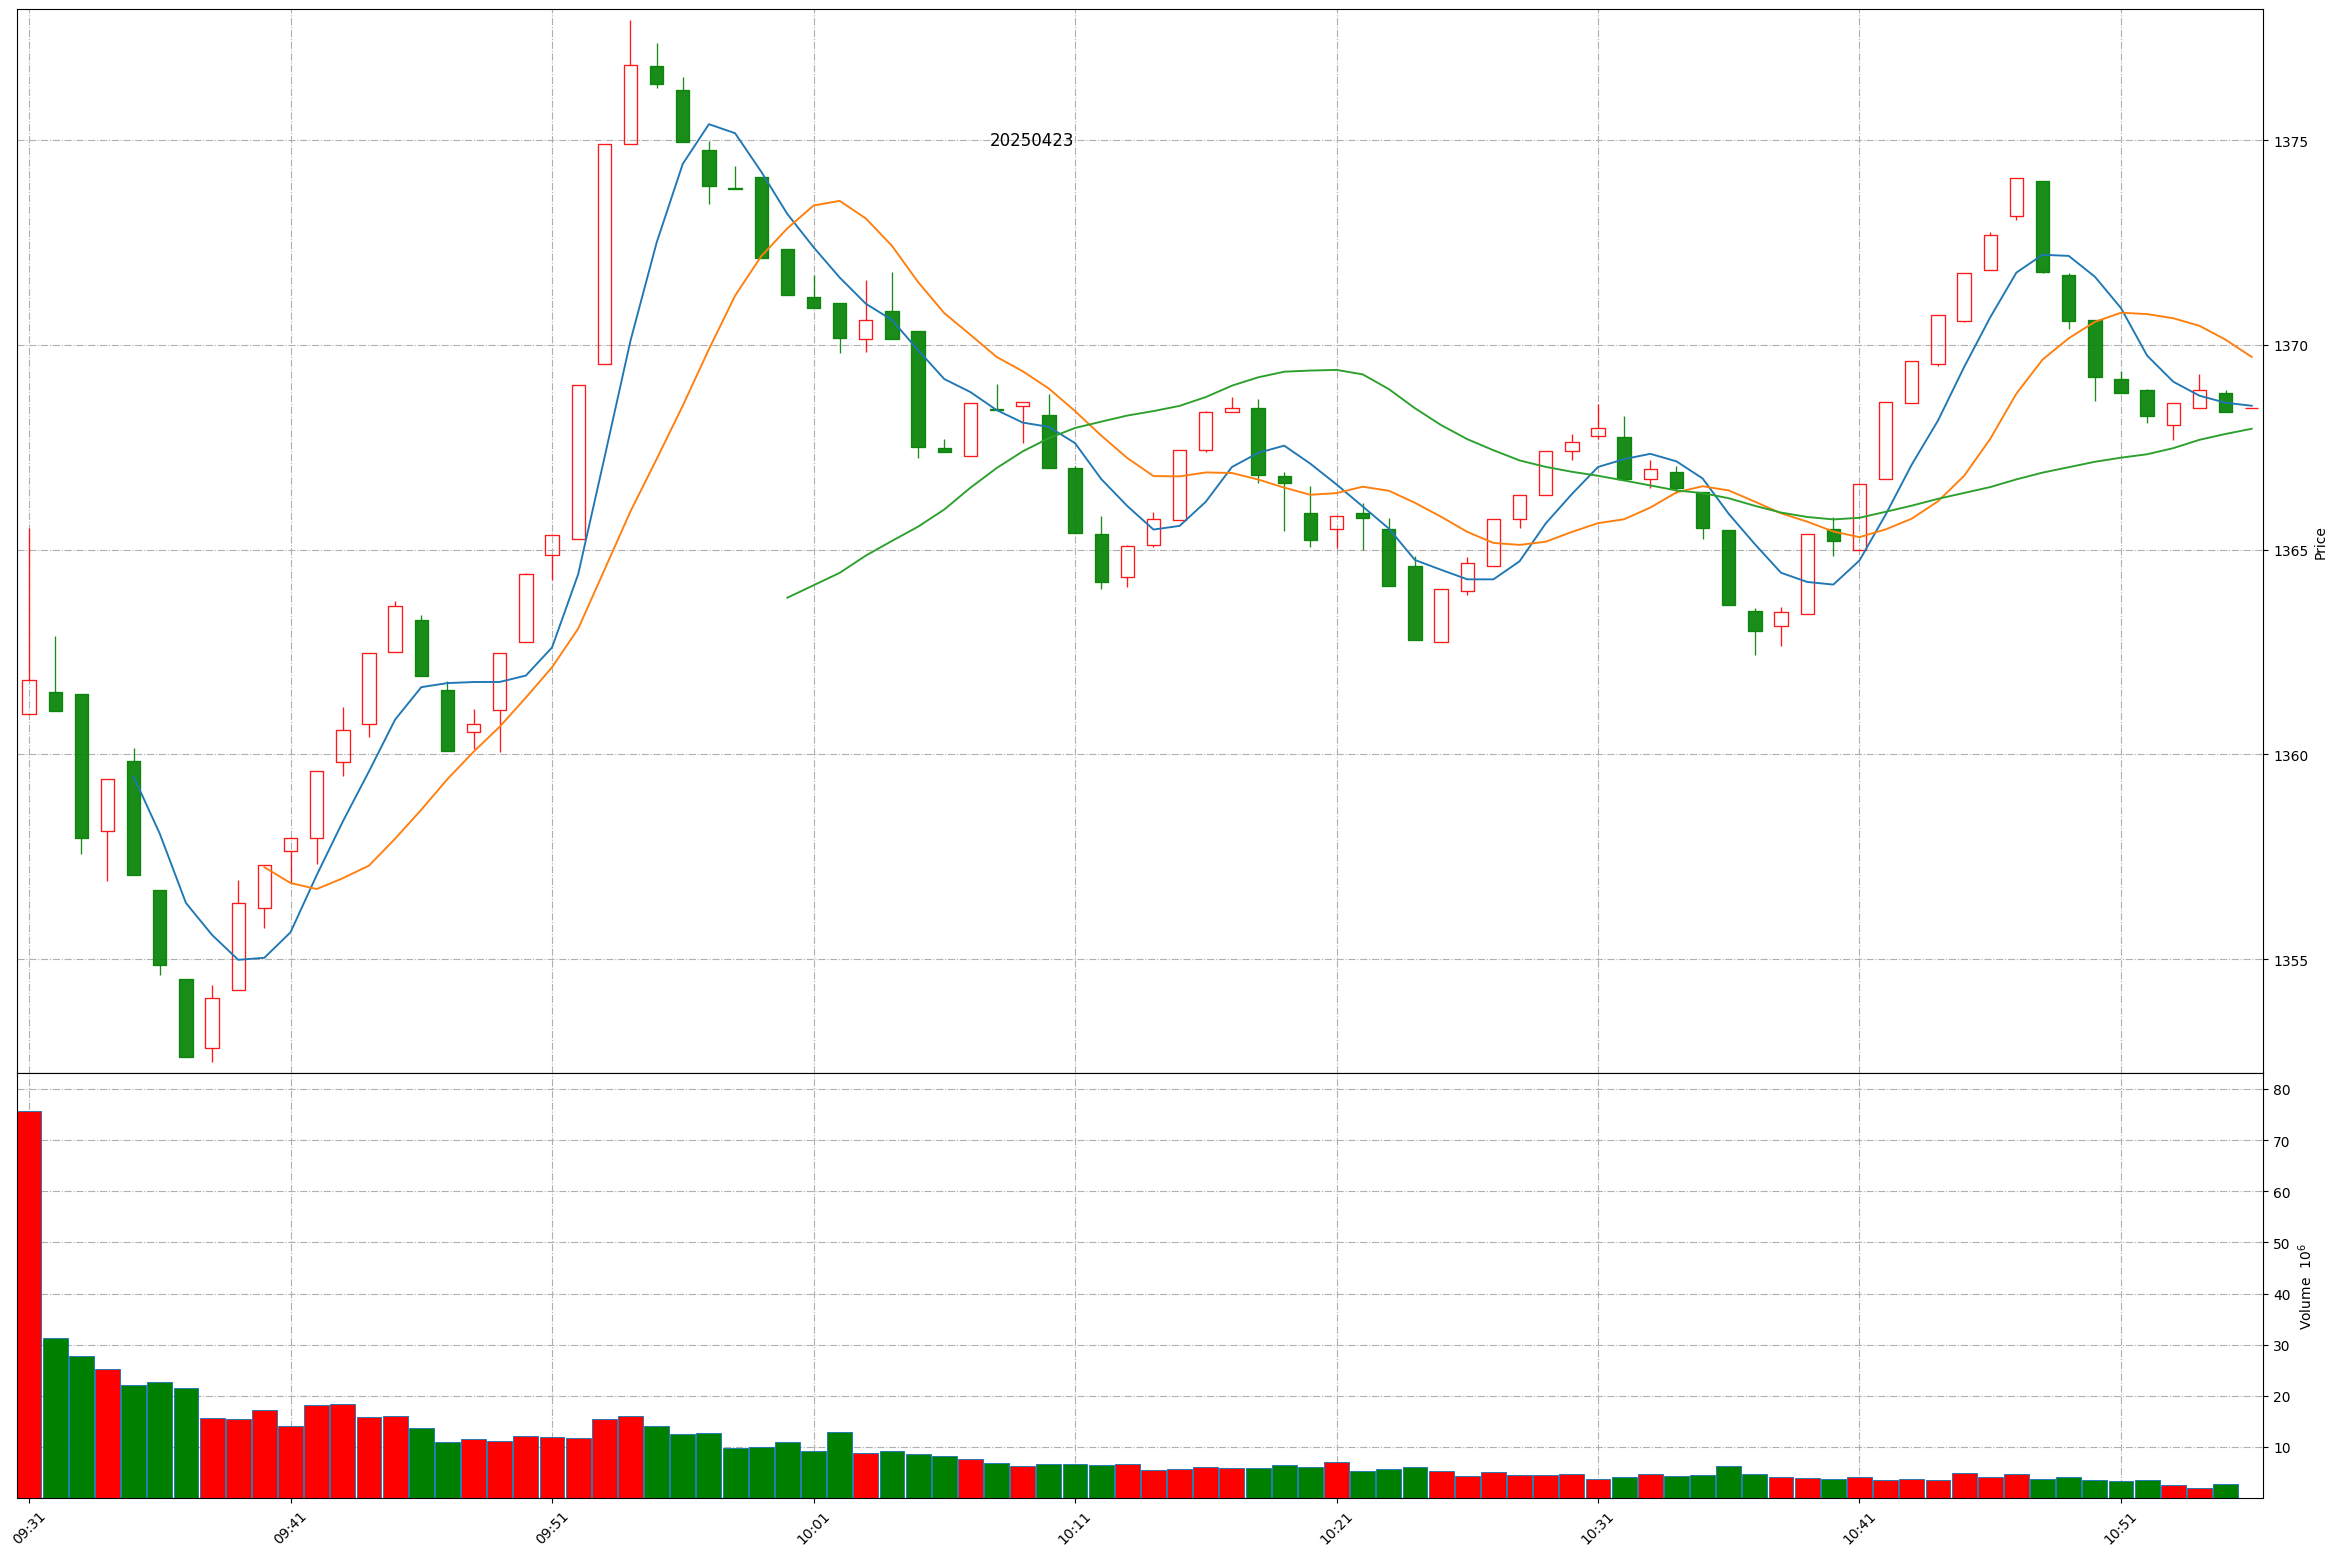
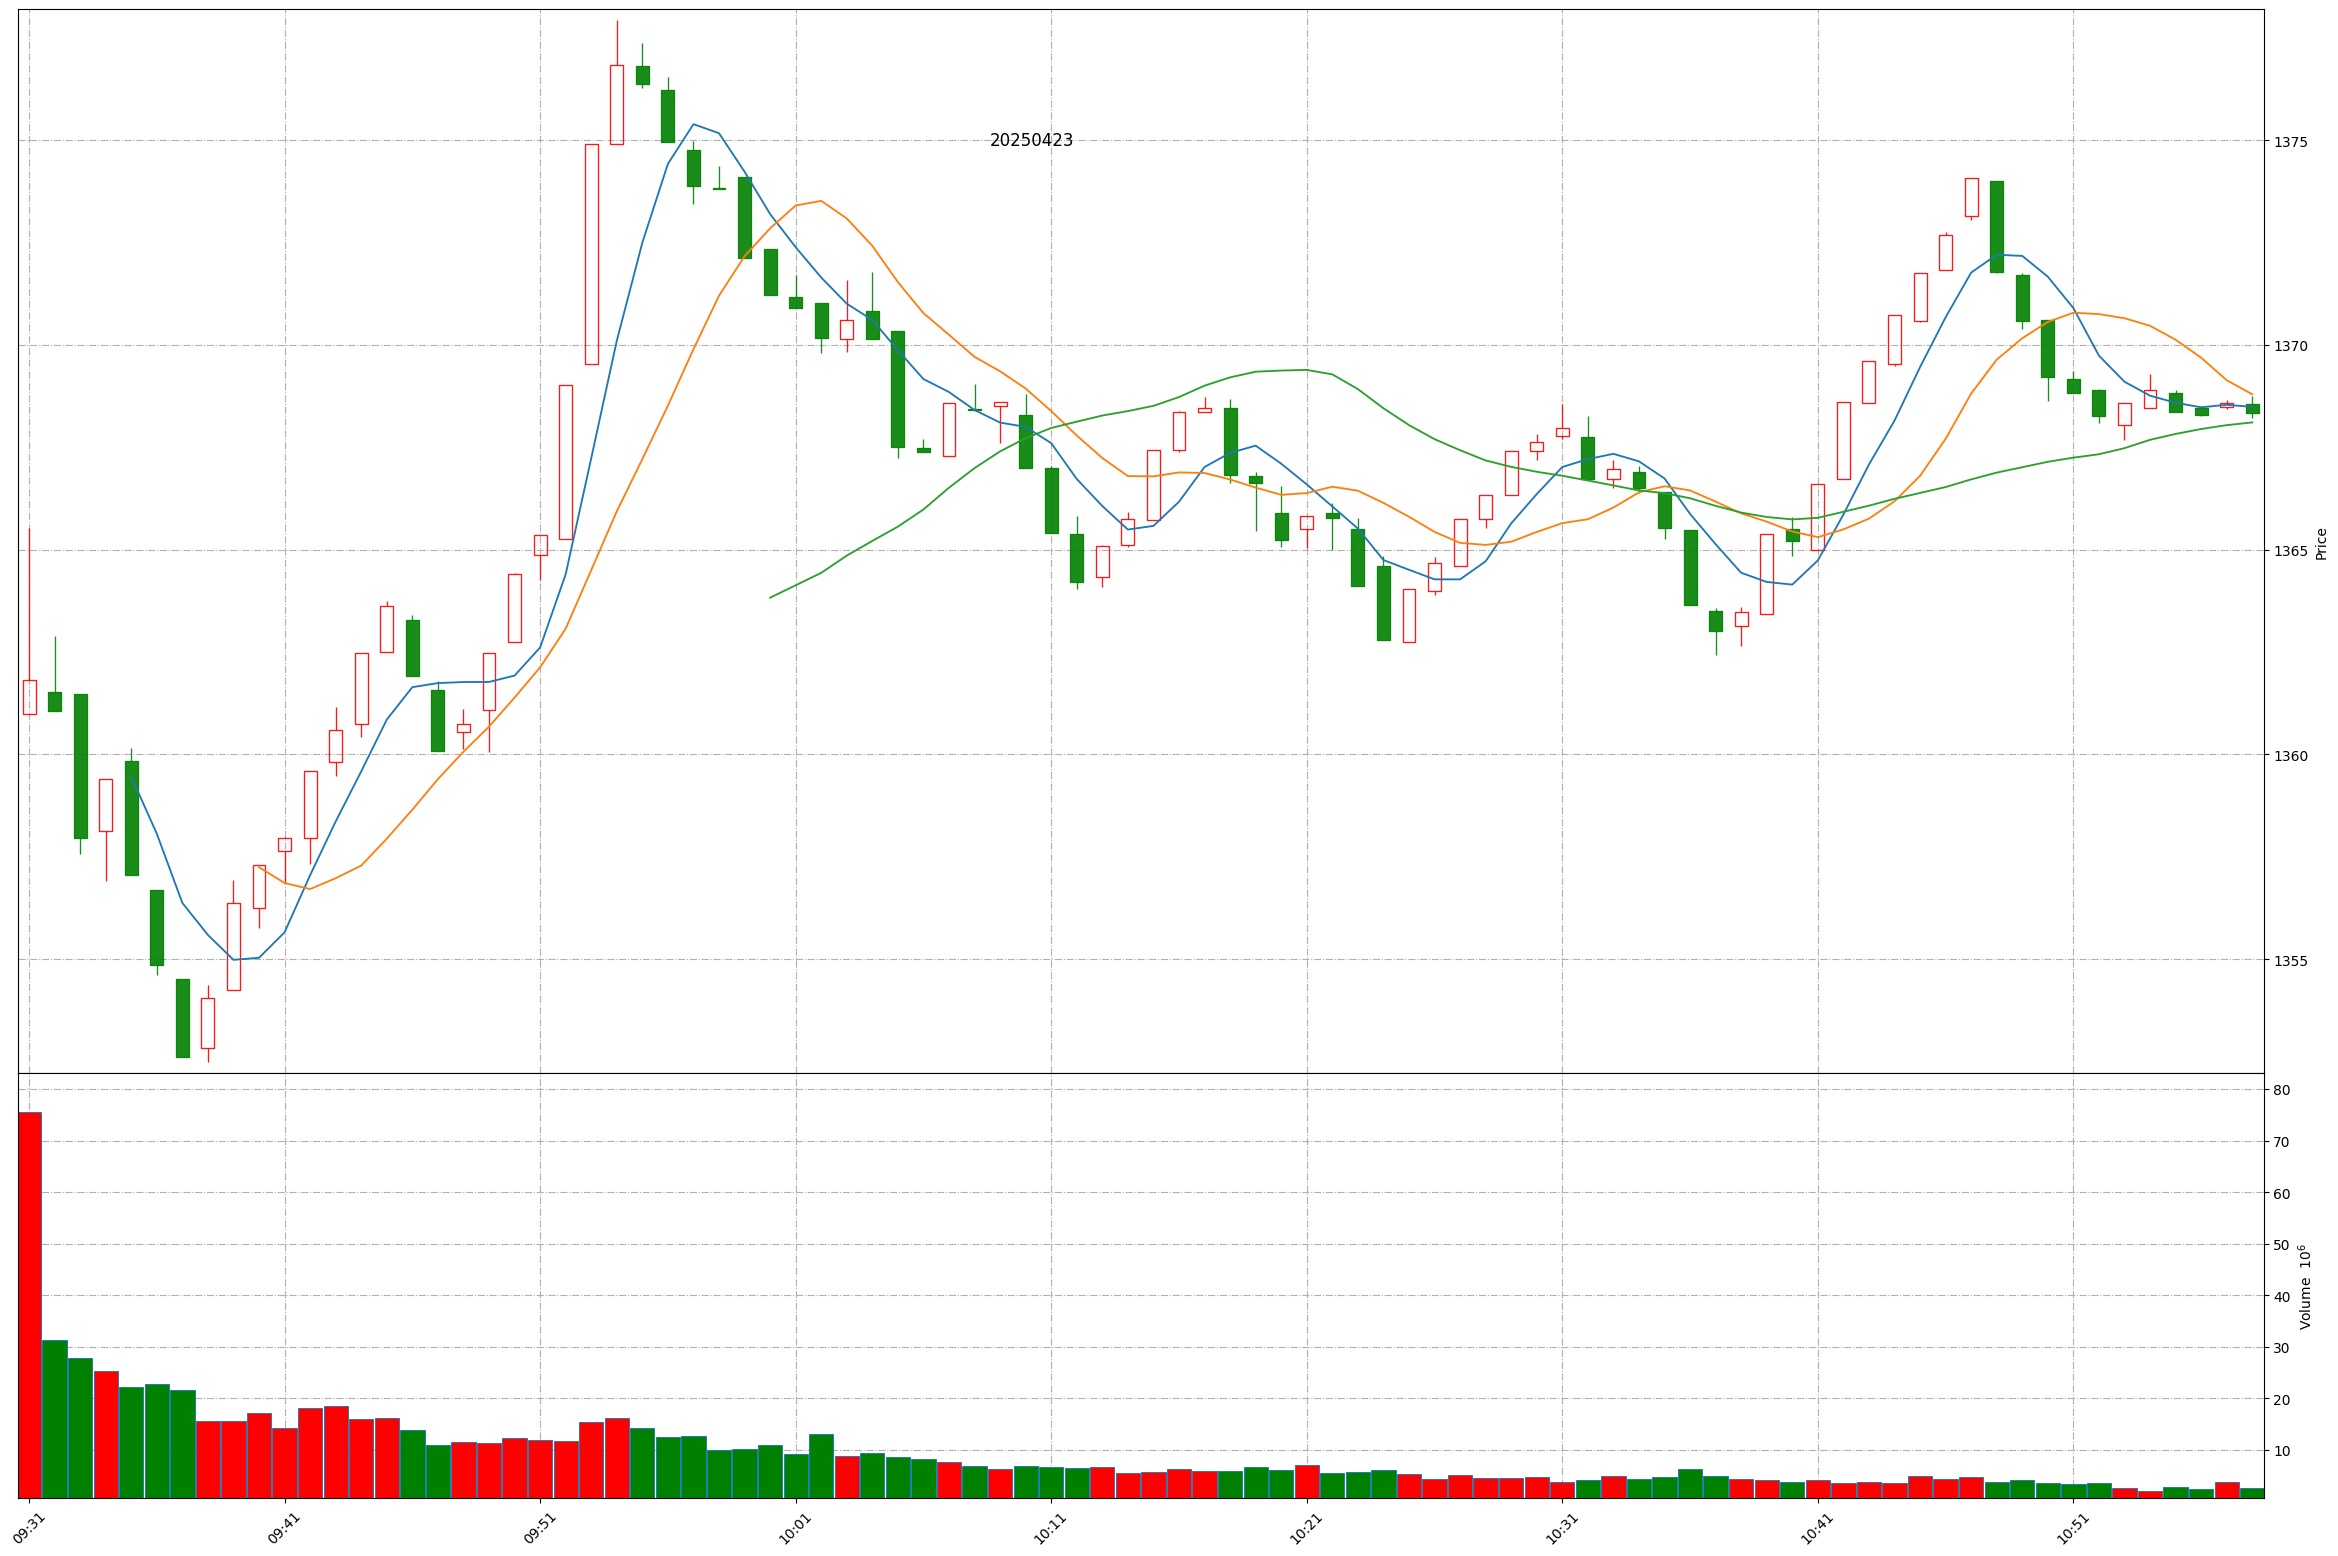
Github action update at 2025-04-23 10:58:04.

diff --git a/README.md b/README.md
@@ -1,11 +1,11 @@
 
 # Daily-A-share-market-quotes 每日 A 股指数（5min 更新）- 20250423
 
-### 上证指数 20250423 10:55
+### 上证指数 20250423 10:58
 ![](./fig/2025/4/20250423-sh000001.png)
 
-### 深证成指 20250423 10:55
+### 深证成指 20250423 10:58
 ![](./fig/2025/4/20250423-sz399001.png)
 
-### 北证50 20250423 10:55
+### 北证50 20250423 10:58
 ![](./fig/2025/4/20250423-bj899050.png)
